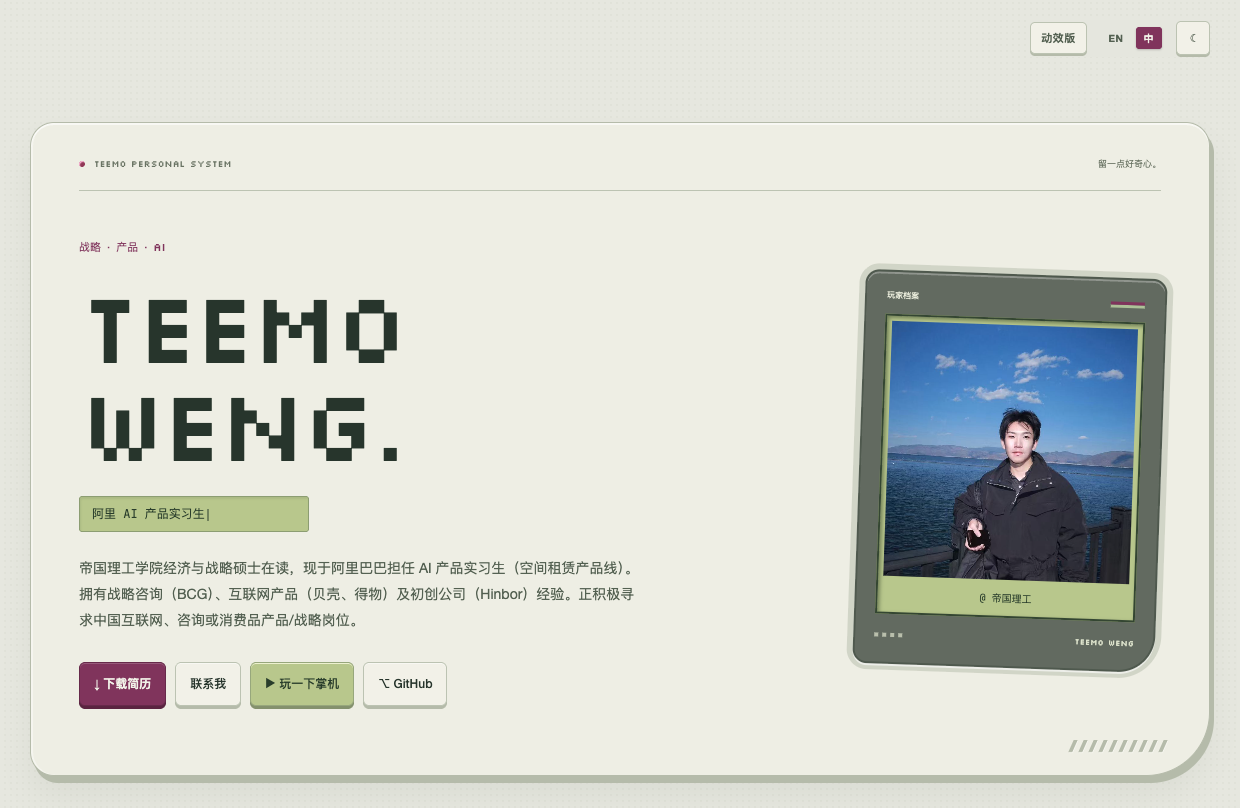
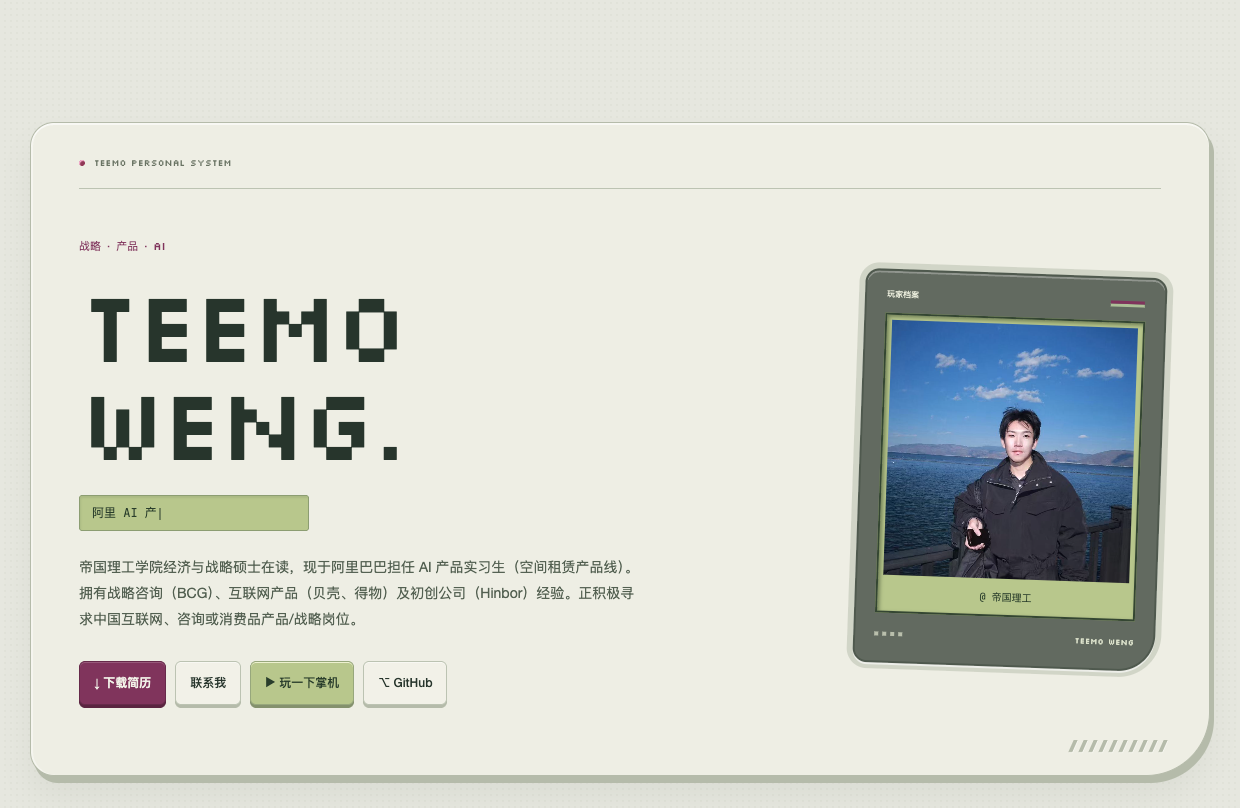
feat: finalize pocket homepage and remove unwanted labels

diff --git a/index.html b/index.html
@@ -104,16 +104,6 @@ nav {
 }
 .btn-icon:hover { border-color: var(--accent); color: var(--accent); }
 
-.nav-v2 {
-  display: inline-flex; align-items: center;
-  padding: 5px 12px; border: 1px solid var(--border);
-  border-radius: 99px; background: var(--card);
-  font-size: 11.5px; font-weight: 600; letter-spacing: 0.04em;
-  color: var(--fg2); text-decoration: none; white-space: nowrap;
-  transition: all 0.2s;
-}
-.nav-v2:hover { border-color: var(--accent); color: var(--accent); }
-
 .lang-toggle {
   display: flex; gap: 4px; background: var(--bg3);
   border-radius: 8px; padding: 3px;
@@ -895,7 +885,7 @@ footer span { color: var(--accent); }
 .handheld-player-symbol{display:grid;place-items:center;flex-shrink:0;width:36px;height:36px;border-radius:7px;background:#dce2cf;color:#4f6240;font:18px 'Handheld Pixel',monospace}
 .handheld-player-tag strong{font-size:12px;font-weight:500;display:block;margin-bottom:5px}
 .handheld-player-tag small{font:9px/1.5 'JetBrains Mono',monospace;color:var(--hh-muted)}
-.handheld-pencil-note{display:block;color:var(--hh-muted);font:italic 17px/1.5 Georgia,'Kaiti SC',serif;margin-top:36px;transform:rotate(-5deg)}
+
 /* The shell is drawn in CSS: molded corners, seam, bezel, recessed switches. */
 .handheld-console{--lcd-bg:#b6c985;--lcd-ink:#293b21;--lcd-mid:#728953;--lcd-line:#849963;--lcd-light:#c3d394;position:relative;width:388px;min-height:647px;padding:0 24px 27px;border:1px solid #aeb0a4;border-radius:19px 20px 69px 21px;background:linear-gradient(114deg,#f0f0e8 0%,#dedfd5 57%,#d0d2c7 100%);box-shadow:inset 3px 2px 4px #ffffffe0,inset -5px -5px 8px #9d9f9380,5px 8px 0 -1px #b5b8aa,6px 9px 0 #9b9f8f,15px 25px 35px #23321835,2px 2px 7px #23321820;transform:rotate(-3deg);color:#303730;touch-action:pan-y;outline:none;transition:transform .35s ease,box-shadow .35s ease}
 .handheld-console:focus-within{transform:rotate(-1deg);box-shadow:inset 3px 2px 4px #ffffffe0,inset -5px -5px 8px #9d9f9380,5px 8px 0 -1px #b5b8aa,6px 9px 0 #9b9f8f,15px 25px 35px #23321835,0 0 0 3px #79865c44}
@@ -994,15 +984,15 @@ footer span { color: var(--accent); }
 .handheld-sound svg{width:15px;height:15px;flex-shrink:0}
 .handheld-sound[aria-pressed="false"] .hh-sound-wave{display:none}
 .handheld-sound[aria-pressed="true"] .hh-sound-mute{display:none}
-.handheld-guide-note{font:italic 15px/1.5 Georgia,'Kaiti SC',serif;color:var(--hh-muted);margin-top:25px;max-width:160px}
-.handheld-stage-footer{display:flex;justify-content:space-between;gap:20px;border-top:1px solid var(--hh-rule);padding-top:20px;color:var(--hh-muted);font:9px/1.7 'JetBrains Mono',monospace}
-.handheld-stage-footer a{color:var(--hh-ink);text-decoration:none;border-bottom:1px solid var(--hh-rule)}
+
+
+
 .handheld-sr-only{position:absolute;width:1px;height:1px;padding:0;overflow:hidden;clip:rect(0,0,0,0);white-space:nowrap;border:0}
 .handheld-nojs{display:none}
 @media(max-width:1150px){.handheld-stage{padding-inline:28px}.handheld-layout{grid-template-columns:minmax(140px,1fr) 358px minmax(130px,.8fr);gap:25px}.handheld-console{width:358px;padding-inline:20px;min-height:617px}.handheld-top-rail{margin-inline:-20px}.handheld-bezel{padding-left:34px;padding-right:16px;min-height:287px}.handheld-screen{height:235px}.handheld-intro h2{font-size:34px}[data-lang="zh"] .handheld-intro h2{font-size:30px}.handheld-brand strong{font-size:20px}.handheld-display{padding:9px 9px 8px}.hh-menu-item{min-height:24px}.handheld-controls{height:145px}.handheld-ab{gap:11px}.handheld-ab-key button{width:49px;height:49px}.handheld-ab-key span{top:58px}}
-@media(max-width:940px){#playground{padding-inline:24px}.handheld-layout{grid-template-columns:1fr 370px;gap:30px;padding-top:42px;align-items:center}.handheld-console{grid-column:2;grid-row:1/3;width:370px;min-height:625px}.handheld-intro{grid-column:1;grid-row:1}.handheld-guide{grid-column:1;grid-row:2}.handheld-intro p{max-width:250px;margin-bottom:18px}.handheld-player-tag{padding-top:16px}.handheld-pencil-note{display:none}.handheld-guide-title{display:none}.handheld-guide-item{margin-bottom:16px}.handheld-guide-item p{margin-bottom:5px}.handheld-guide-note{display:none}.handheld-stage-header>span{font-size:8px}.handheld-sound{max-width:200px}}
-@media(max-width:680px){#playground{padding:45px 16px 55px}.handheld-stage{padding:22px 18px 22px;border-radius:5px}.handheld-stage-header{padding-bottom:17px;font-size:9px}.handheld-stage-header>span{max-width:105px;text-align:right;font-size:8px}.handheld-layout{display:flex;flex-direction:column;gap:32px;padding:28px 0 26px}.handheld-intro{width:100%;text-align:left}.handheld-intro h2{font-size:38px;margin-bottom:14px;max-width:330px}[data-lang="zh"] .handheld-intro h2{font-size:32px}.handheld-intro h2 span{display:inline}.handheld-intro h2 span+span::before{content:' '}.handheld-intro p{font-size:12px;max-width:400px;margin-bottom:0}.handheld-player-tag{display:none}.handheld-console{width:calc(100% - 16px);max-width:354px;min-height:590px;padding-inline:18px;transform:rotate(-1.7deg);margin:5px 8px 14px}.handheld-console:focus-within{transform:rotate(0)}.handheld-top-rail{margin-inline:-18px;padding-inline:22px;height:31px;margin-bottom:15px}.handheld-bezel{padding:29px 14px 18px 31px;min-height:268px;border-bottom-right-radius:31px}.handheld-bezel-top{font-size:5px;top:10px;gap:5px}.handheld-power-light{left:10px;top:110px}.handheld-screen{height:230px;border-width:2px}.handheld-display{padding:8px}.hh-screen-title{font-size:17px}.hh-screen-meta{font-size:8px;padding-bottom:4px;margin-bottom:6px}.hh-menu-item{font-size:11px!important;min-height:23px;padding:3px 4px!important}.hh-screen-copy{font-size:11px}.handheld-brand{padding-top:13px;gap:5px}.handheld-brand strong{font-size:19px}.handheld-brand span{font-size:7px}.handheld-controls{height:135px;padding-inline:0}.handheld-dpad{width:110px;height:110px;padding:7px}.handheld-ab{gap:11px;padding:7px;margin-right:1px}.handheld-ab-key button{width:44px;height:44px}.handheld-ab-key span{top:54px;left:17px;font-size:10px}.handheld-bottom{height:73px}.handheld-system-controls{left:60px;top:2px;gap:16px}.handheld-system-key button{width:33px;height:10px}.handheld-speaker{right:7px;gap:6px}.handheld-speaker i{height:49px;width:5px}.handheld-speaker i:first-child,.handheld-speaker i:last-child{height:42px}.handheld-shell-label{font-size:5px;bottom:14px}.handheld-screw{display:none}.handheld-guide{width:100%;display:grid;grid-template-columns:1fr 1fr;gap:15px 20px}.handheld-guide-item{margin:0}.handheld-guide-item:nth-of-type(4){display:none}.handheld-guide-item strong{font-size:11px}.handheld-guide-item p{font-size:10px}.handheld-sound{grid-column:1/-1;width:auto;justify-self:start;padding:9px 0;max-width:none;margin-top:1px}.handheld-stage-footer{font-size:8px;gap:18px}.handheld-stage-footer>span{max-width:210px}.hh-title-logo{font-size:28px}.hh-title-screen p{font-size:8px}}
-@media(max-width:380px){.btn-stack{white-space:normal;min-width:0;max-width:100%;text-align:center;padding-inline:16px}#playground{padding-inline:8px}.handheld-stage{padding-inline:12px}.handheld-console{width:calc(100% - 10px);margin-inline:5px;padding-inline:14px;min-height:567px}.handheld-top-rail{margin-inline:-14px}.handheld-screen{height:228px}.handheld-bezel{padding-left:27px;padding-right:11px}.handheld-bezel-top{font-size:4.4px;gap:4px}.handheld-power-light{left:7px;font-size:4px}.handheld-ab{gap:9px;padding:6px}.handheld-ab-key button{width:40px;height:40px}.handheld-ab-key span{top:48px;left:15px}.handheld-dpad{width:99px;height:99px}.handheld-system-controls{left:49px}.handheld-controls{height:128px}.handheld-brand span{font-size:6px}.hh-menu-item{font-size:10px!important}.hh-screen-copy{font-size:10px;line-height:1.65}.hh-screen-title{font-size:16px}.handheld-guide-keys kbd{min-width:20px}.handheld-stage-footer{gap:10px}}
+@media(max-width:940px){#playground{padding-inline:24px}.handheld-layout{grid-template-columns:1fr 370px;gap:30px;padding-top:42px;align-items:center}.handheld-console{grid-column:2;grid-row:1/3;width:370px;min-height:625px}.handheld-intro{grid-column:1;grid-row:1}.handheld-guide{grid-column:1;grid-row:2}.handheld-intro p{max-width:250px;margin-bottom:18px}.handheld-player-tag{padding-top:16px}.handheld-guide-title{display:none}.handheld-guide-item{margin-bottom:16px}.handheld-guide-item p{margin-bottom:5px}.handheld-sound{max-width:200px}}
+@media(max-width:680px){#playground{padding:45px 16px 55px}.handheld-stage{padding:22px 18px 22px;border-radius:5px}.handheld-stage-header{padding-bottom:17px;font-size:9px}.handheld-layout{display:flex;flex-direction:column;gap:32px;padding:28px 0 26px}.handheld-intro{width:100%;text-align:left}.handheld-intro h2{font-size:38px;margin-bottom:14px;max-width:330px}[data-lang="zh"] .handheld-intro h2{font-size:32px}.handheld-intro h2 span{display:inline}.handheld-intro h2 span+span::before{content:' '}.handheld-intro p{font-size:12px;max-width:400px;margin-bottom:0}.handheld-player-tag{display:none}.handheld-console{width:calc(100% - 16px);max-width:354px;min-height:590px;padding-inline:18px;transform:rotate(-1.7deg);margin:5px 8px 14px}.handheld-console:focus-within{transform:rotate(0)}.handheld-top-rail{margin-inline:-18px;padding-inline:22px;height:31px;margin-bottom:15px}.handheld-bezel{padding:29px 14px 18px 31px;min-height:268px;border-bottom-right-radius:31px}.handheld-bezel-top{font-size:5px;top:10px;gap:5px}.handheld-power-light{left:10px;top:110px}.handheld-screen{height:230px;border-width:2px}.handheld-display{padding:8px}.hh-screen-title{font-size:17px}.hh-screen-meta{font-size:8px;padding-bottom:4px;margin-bottom:6px}.hh-menu-item{font-size:11px!important;min-height:23px;padding:3px 4px!important}.hh-screen-copy{font-size:11px}.handheld-brand{padding-top:13px;gap:5px}.handheld-brand strong{font-size:19px}.handheld-brand span{font-size:7px}.handheld-controls{height:135px;padding-inline:0}.handheld-dpad{width:110px;height:110px;padding:7px}.handheld-ab{gap:11px;padding:7px;margin-right:1px}.handheld-ab-key button{width:44px;height:44px}.handheld-ab-key span{top:54px;left:17px;font-size:10px}.handheld-bottom{height:73px}.handheld-system-controls{left:60px;top:2px;gap:16px}.handheld-system-key button{width:33px;height:10px}.handheld-speaker{right:7px;gap:6px}.handheld-speaker i{height:49px;width:5px}.handheld-speaker i:first-child,.handheld-speaker i:last-child{height:42px}.handheld-shell-label{font-size:5px;bottom:14px}.handheld-screw{display:none}.handheld-guide{width:100%;display:grid;grid-template-columns:1fr 1fr;gap:15px 20px}.handheld-guide-item{margin:0}.handheld-guide-item:nth-of-type(4){display:none}.handheld-guide-item strong{font-size:11px}.handheld-guide-item p{font-size:10px}.handheld-sound{grid-column:1/-1;width:auto;justify-self:start;padding:9px 0;max-width:none;margin-top:1px}.hh-title-logo{font-size:28px}.hh-title-screen p{font-size:8px}}
+@media(max-width:380px){.btn-stack{white-space:normal;min-width:0;max-width:100%;text-align:center;padding-inline:16px}#playground{padding-inline:8px}.handheld-stage{padding-inline:12px}.handheld-console{width:calc(100% - 10px);margin-inline:5px;padding-inline:14px;min-height:567px}.handheld-top-rail{margin-inline:-14px}.handheld-screen{height:228px}.handheld-bezel{padding-left:27px;padding-right:11px}.handheld-bezel-top{font-size:4.4px;gap:4px}.handheld-power-light{left:7px;font-size:4px}.handheld-ab{gap:9px;padding:6px}.handheld-ab-key button{width:40px;height:40px}.handheld-ab-key span{top:48px;left:15px}.handheld-dpad{width:99px;height:99px}.handheld-system-controls{left:49px}.handheld-controls{height:128px}.handheld-brand span{font-size:6px}.hh-menu-item{font-size:10px!important}.hh-screen-copy{font-size:10px;line-height:1.65}.hh-screen-title{font-size:16px}.handheld-guide-keys kbd{min-width:20px}}
 @media(prefers-reduced-motion:reduce){.handheld-console,.handheld-power::after,.hh-boot-bar::after{transition:none!important;animation:none!important}.handheld-console,.handheld-console:focus-within{transform:none}}
 
 
@@ -1036,7 +1026,7 @@ footer span { color: var(--accent); }
 @media(max-width:680px){[data-lang="zh"] .handheld-intro h2 span{display:block}[data-lang="zh"] .handheld-intro h2 span+span::before{content:none}.hh-menu-item{font-size:12px!important;min-height:27px}.handheld-screen .hh-menu{gap:1px}}
 @media(max-width:380px){.handheld-screen{height:250px}.hh-links{flex-wrap:nowrap;gap:4px}.hh-links .hh-link{font-size:9px!important;white-space:nowrap;margin-right:0;padding-inline:4px}}
 
-.handheld-stage-header > [data-i18n="game_edition"]{margin-left:auto}
+
 .handheld-toggle{display:inline-flex;align-items:center;justify-content:center;gap:8px;flex-shrink:0;min-height:40px;padding:8px 12px;border:1px solid var(--hh-rule);border-radius:5px;background:transparent;color:var(--hh-ink);font:11px 'JetBrains Mono','PingFang SC',monospace;cursor:pointer}
 .handheld-toggle[hidden],#handheld-content[hidden]{display:none}
 .handheld-toggle:hover{background:#8e997a18}
@@ -1047,7 +1037,7 @@ footer span { color: var(--accent); }
 .handheld-stage[data-collapsed="true"] .handheld-stage-header{padding-bottom:0;border-bottom-color:transparent}
 #playground{overflow-anchor:none}
 @media(prefers-reduced-motion:reduce){.handheld-stage-header,.handheld-toggle svg{transition:none}}
-@media(max-width:680px){.handheld-stage-header > [data-i18n="game_edition"]{display:none}.handheld-toggle{font-size:10px;padding-inline:9px}}
+@media(max-width:680px){.handheld-toggle{font-size:10px;padding-inline:9px}}
 
 /* Pocket System: one material language across the personal homepage. */
 .pocket-homepage {
@@ -1085,8 +1075,7 @@ footer span { color: var(--accent); }
 .pocket-homepage .nav-links{gap:22px}
 .pocket-homepage .nav-links a{font-size:11px;letter-spacing:0;text-transform:none;font-weight:600}
 .pocket-homepage .nav-controls{gap:10px}
-.pocket-homepage .nav-v2,.pocket-homepage .btn-icon{border-radius:5px;background:var(--bg2);border-color:var(--border);box-shadow:0 2px 0 var(--shell-edge);font-size:11px}
-.pocket-homepage .nav-v2{padding:7px 10px}
+.pocket-homepage .btn-icon{border-radius:5px;background:var(--bg2);border-color:var(--border);box-shadow:0 2px 0 var(--shell-edge);font-size:11px}
 .pocket-homepage .lang-toggle{border:1px solid var(--border);border-radius:6px;background:var(--bg3);padding:3px;box-shadow:inset 0 1px 3px #26322318}
 .pocket-homepage .lang-btn{border-radius:3px;font-size:10px;padding:4px 8px;color:var(--fg2)}
 .pocket-homepage .lang-btn.active{background:var(--accent);color:var(--bg2);box-shadow:0 1px 2px #0003}
@@ -1112,7 +1101,7 @@ footer span { color: var(--accent); }
 .pocket-homepage .hero-case-rail{grid-column:1/-1;display:flex;align-items:center;justify-content:space-between;gap:20px;padding-bottom:20px;border-bottom:1px solid var(--border);font:9px var(--pixel);letter-spacing:.02em;color:var(--fg3)}
 .pocket-homepage .hero-case-rail>span:first-child{display:flex;align-items:center;gap:9px}
 .pocket-homepage .hero-case-rail i{width:6px;height:6px;border-radius:50%;background:#913856;box-shadow:inset 1px 1px 1px #ffb8d8;flex-shrink:0}
-.pocket-homepage .hero-case-rail>span:last-child{font-family:'JetBrains Mono',monospace;font-size:9px;letter-spacing:0}
+
 .pocket-homepage .hero-text{min-width:0}
 .pocket-homepage .hero-tag{padding:0;border:0;border-radius:0;font:11px var(--pixel);letter-spacing:0;text-transform:none;margin:0 0 20px;color:var(--accent)}
 .pocket-homepage .hero-name{font-family:var(--pixel);font-size:clamp(60px,7.2vw,100px);font-weight:400;line-height:.98;letter-spacing:-5px;margin:0 0 25px;color:var(--fg)}
@@ -1172,14 +1161,13 @@ footer span { color: var(--accent); }
   .pocket-homepage nav{height:66px;padding-inline:18px;gap:12px}
   .pocket-homepage .nav-logo{font-size:12px;gap:8px}
   .pocket-homepage .nav-controls{gap:7px}
-  .pocket-homepage .nav-v2{font-size:10px;padding:6px 8px}
   .pocket-homepage .btn-icon{width:30px;height:30px}
   .pocket-homepage .lang-btn{padding:4px 6px}
   .pocket-homepage section{padding:55px 24px;scroll-margin-top:86px}
   .pocket-homepage #hero{padding:96px 20px 23px}
   .pocket-homepage .hero-content{grid-template-columns:1fr;gap:28px;padding:24px 26px 40px;border-radius:18px 18px 42px 18px;text-align:left}
   .pocket-homepage .hero-case-rail{grid-column:1;padding-bottom:18px;font-size:8px;gap:10px}
-  .pocket-homepage .hero-case-rail>span:last-child{font-size:7px}
+
   .pocket-homepage .hero-name{font-size:76px;letter-spacing:-4px;line-height:.98;margin-bottom:22px}
   .pocket-homepage .hero-tag{margin-bottom:16px}
   .pocket-homepage .hero-desc{font-size:14px;line-height:1.8}
@@ -1202,7 +1190,7 @@ footer span { color: var(--accent); }
   .pocket-homepage .hero-desc{font-size:13px}
   .pocket-homepage .hero-typing{font-size:10px;margin-bottom:19px}
   .pocket-homepage .hero-case-rail{font-size:7px}
-  .pocket-homepage .hero-case-rail>span:last-child{max-width:70px;line-height:1.6;text-align:right}
+
   .pocket-homepage .hero-avatar{max-width:250px;margin-block:10px}
   .pocket-homepage .avatar-wrap img{height:215px}
   .pocket-homepage #playground{padding-inline:13px}
@@ -1215,7 +1203,6 @@ footer span { color: var(--accent); }
   .pocket-homepage .pocket-brand-icon{grid-template-columns:repeat(2,4px)}
   .pocket-homepage .pocket-brand-icon i{width:4px;height:4px}
   .pocket-homepage .nav-controls{gap:6px}
-  .pocket-homepage .nav-v2{padding:5px 6px;font-size:9px}
   .pocket-homepage .hero-name{font-size:54px;letter-spacing:-3px}
   .pocket-homepage .hero-content{padding-inline:17px}
   .pocket-homepage .hero-actions>a,.pocket-homepage .hero-actions>button{padding-inline:4px;font-size:9px}
@@ -1454,7 +1441,6 @@ footer span { color: var(--accent); }
     <li><a href="#contact" data-i18n="nav_contact">Contact</a></li>
   </ul>
   <div class="nav-controls">
-    <a class="nav-v2" href="/v2/" data-i18n="btn_v2">Cinematic</a>
     <div class="lang-toggle">
       <button class="lang-btn active" onclick="setLang('en')">EN</button>
       <button class="lang-btn" onclick="setLang('zh')">中</button>
@@ -1467,7 +1453,7 @@ footer span { color: var(--accent); }
 <section id="hero">
   <canvas id="particles"></canvas>
   <div class="hero-content">
-    <div class="hero-case-rail"><span><i aria-hidden="true"></i> TEEMO PERSONAL SYSTEM</span><span data-i18n="pocket_edition">A little world to explore.</span></div>
+    <div class="hero-case-rail"><span><i aria-hidden="true"></i> TEEMO PERSONAL SYSTEM</span></div>
     <div class="hero-text">
       <div class="hero-tag" data-i18n="hero_tag">Strategy · Product · AI</div>
       <h1 class="hero-name">Teemo<br><span>Weng.</span></h1>
@@ -1504,7 +1490,6 @@ footer span { color: var(--accent); }
   <div class="handheld-stage">
     <div class="handheld-stage-header">
       <strong><span class="handheld-mark" aria-hidden="true"><i></i><i></i><i></i><i></i></span> TEEMO / PLAY</strong>
-      <span data-i18n="game_edition">A little world, ready to play.</span>
       <button id="handheld-toggle" class="handheld-toggle" type="button" aria-expanded="true" aria-controls="handheld-content" hidden><span data-i18n="game_collapse">Collapse</span><svg viewBox="0 0 16 16" width="14" height="14" fill="none" stroke="currentColor" stroke-width="1.5" aria-hidden="true"><path d="m4 10 4-4 4 4"/></svg></button>
     </div>
     <div id="handheld-content">
@@ -1513,7 +1498,6 @@ footer span { color: var(--accent); }
         <h2 data-i18n="game_heading"><span>Press start.</span><span>Meet Teemo.</span></h2>
         <p data-i18n="game_intro">A few projects, a little curiosity, and a pocket-sized way to get to know me. Go on. Press a button.</p>
         <div class="handheld-player-tag"><span class="handheld-player-symbol" aria-hidden="true">T</span><div><strong>Teemo Weng</strong><small data-i18n="game_player_role">Product · AI · Strategy</small></div></div>
-        <span class="handheld-pencil-note" data-i18n="game_margin_note">Made for the curious. ↗</span>
       </div>
       <div id="handheld-console" class="handheld-console" tabindex="0" role="group" data-powered="true" data-palette="green" data-i18n-aria-label="game_console_label" aria-label="Teemo interactive handheld. Use direction keys and A or B while focused.">
         <div class="handheld-top-rail"><span>OFF · ON</span><button id="handheld-power" class="handheld-power" type="button" aria-pressed="true" aria-label="Power" data-i18n-aria-label="game_power_label"></button><small>TW—01</small></div>
@@ -1540,10 +1524,8 @@ footer span { color: var(--accent); }
         <div class="handheld-guide-item"><strong data-i18n="game_action_title">Follow your curiosity</strong><p data-i18n="game_action_desc">A to select. B to go back.</p><div class="handheld-guide-keys" aria-hidden="true"><kbd>A</kbd><span>/</span><kbd>Enter</kbd><kbd>B</kbd><span>/</span><kbd>Esc</kbd></div></div>
         <div class="handheld-guide-item"><strong data-i18n="game_home_title">Make yourself at home</strong><p data-i18n="game_home_desc">START returns home. SELECT changes the screen color.</p></div>
         <button type="button" id="handheld-sound" class="handheld-sound" aria-pressed="false" aria-label="Enable sound"><svg viewBox="0 0 24 24" fill="none" stroke="currentColor" stroke-width="1.6" aria-hidden="true"><path d="M10 5 5 9H2v6h3l5 4V5Z"/><path class="hh-sound-wave" d="M14 8q4 4 0 8m3-11q7 7 0 14"/><path class="hh-sound-mute" d="m15 9 6 6m0-6-6 6"/></svg><span data-i18n="game_sound_off">Sound off · turn on</span></button>
-        <p class="handheld-guide-note" data-i18n="game_quest_note">Psst… there’s a little side quest inside.</p>
       </aside>
     </div>
-    <div class="handheld-stage-footer"><span data-i18n="game_footer">Real projects. A playful way in.</span><a href="#projects" data-i18n="game_skip">Browse the projects below ↗</a></div>
     </div>
     <div id="handheld-announcement" class="handheld-sr-only" aria-live="polite" aria-atomic="true"></div>
     <noscript><p class="handheld-nojs">掌机需要 JavaScript。你仍可在下方浏览完整项目。 / Enable JavaScript to play, or browse all projects below.</p><style>.handheld-nojs{display:block;padding-top:15px;font-size:12px}.project-card,.news-item,.tl-item,.edu-card,.skill-group,.reveal{opacity:1;transform:none}.handheld-console button,.handheld-sound{pointer-events:none}.handheld-nojs a{color:inherit}</style></noscript>
@@ -1925,7 +1907,7 @@ footer span { color: var(--accent); }
 </section>
 
 <footer>
-  <strong>TEEMO / PLAY</strong><span data-i18n="pocket_footer">Made for a little curiosity. © Teemo Weng 2026</span>
+  <strong>TEEMO / PLAY</strong><span data-i18n="pocket_footer">© Teemo Weng 2026</span>
 </footer>
 
 <!-- GITHUB MODAL -->
@@ -1978,18 +1960,16 @@ const i18n = {
   en: {
     pocket_theme_label: "Switch light or dark theme",
     pocket_name_placeholder: "Your name", pocket_email_placeholder: "your@email.com", pocket_message_placeholder: "Hello Teemo, I’d like to connect...",
-    pocket_edition: "A little world to explore.", pocket_profile: "Player profile",
+    pocket_profile: "Player profile",
     pocket_news_heading: "What’s new", pocket_experience_heading: "Experience",
     pocket_education_heading: "Education", pocket_skills_heading: "Skills & tools", pocket_contact_heading: "Let’s talk",
-    pocket_footer: "Made for a little curiosity. © Teemo Weng 2026",
+    pocket_footer: "© Teemo Weng 2026",
     game_hero_link: "▶ Play a little",
     btn_resume_short: "↓ Resume", btn_contact_short: "Contact", game_hero_short: "▶ Play",
     game_collapse: "Collapse", game_expand: "Expand",
-    game_edition: "A little world, ready to play.",
     game_heading: "<span>Press start.</span><span>Meet Teemo.</span>",
     game_intro: "A few projects, a little curiosity, and a pocket-sized way to get to know me. Go on. Press a button.",
     game_player_role: "Product · AI · Strategy",
-    game_margin_note: "Made for the curious. ↗",
     game_console_label: "Teemo interactive handheld. Use direction keys and A or B while focused.",
     game_power_label: "Power",
     game_title_sub: "A pocket-sized introduction.",
@@ -2010,14 +1990,11 @@ const i18n = {
     game_home_title: "Make yourself at home",
     game_home_desc: "START returns home. SELECT changes the screen color.",
     game_sound_off: "Sound off · turn on",
-    game_quest_note: "Psst… there’s a little side quest inside.",
-    game_footer: "Real projects. A playful way in.",
-    game_skip: "Browse the projects below ↗",
     nav_capabilities: 'Capabilities', nav_news: 'News', nav_projects: 'Projects', nav_experience: 'Experience',
     nav_research: 'Research', nav_education: 'Education', nav_contact: 'Contact',
     hero_tag: 'Strategy · Product · AI',
     hero_desc: 'MSc student at Imperial College London, currently an AI Product Intern at Alibaba (space-leasing product line). Experienced in strategy consulting (BCG), internet product (Beike, POIZON), and startup building. Seeking product & strategy roles in China.',
-    btn_resume: '↓ Download Resume', btn_contact: 'Get in Touch', btn_v2: 'Cinematic',
+    btn_resume: '↓ Download Resume', btn_contact: 'Get in Touch',
     avatar_badge: '@ Imperial College', scroll_hint: 'scroll',
     section_capabilities: 'FDE capability map',
     capabilities_heading: 'From ambiguity to <span>adoption</span>',
@@ -2112,18 +2089,16 @@ const i18n = {
   zh: {
     pocket_theme_label: "切换浅色或深色外观",
     pocket_name_placeholder: "怎么称呼你", pocket_email_placeholder: "你的邮箱地址", pocket_message_placeholder: "你好 Teemo，我想聊聊……",
-    pocket_edition: "留一点好奇心。", pocket_profile: "玩家档案",
+    pocket_profile: "玩家档案",
     pocket_news_heading: "最近在做什么", pocket_experience_heading: "一路走来的经历",
     pocket_education_heading: "教育经历", pocket_skills_heading: "我的工具箱", pocket_contact_heading: "聊点有意思的",
-    pocket_footer: "留一点好奇心。© 翁呈轩 Teemo Weng 2026",
+    pocket_footer: "© 翁呈轩 Teemo Weng 2026",
     game_hero_link: "▶ 玩一下掌机",
     btn_resume_short: "↓ 简历", btn_contact_short: "联系我", game_hero_short: "▶ 掌机",
     game_collapse: "收起掌机", game_expand: "展开掌机",
-    game_edition: "我的小世界，随时开机。",
     game_heading: "<span>按下开始，</span><span>认识一下我。</span>",
     game_intro: "几个项目，一点好奇心，装进一台小掌机。用方向键逛逛我的作品，也可以去收集一点灵感。",
     game_player_role: "产品 · AI · 策略",
-    game_margin_note: "给好奇的人，一个小入口。↗",
     game_console_label: "Teemo 互动掌机。聚焦后使用方向键和 A、B 操作。",
     game_power_label: "电源开关",
     game_title_sub: "装进口袋的自我介绍。",
@@ -2144,14 +2119,11 @@ const i18n = {
     game_home_title: "随时回到起点",
     game_home_desc: "START 回主菜单，SELECT 换个屏幕颜色。",
     game_sound_off: "音效已关 · 点击开启",
-    game_quest_note: "里面还藏了一个小彩蛋。",
-    game_footer: "真实的作品，换一种好玩的打开方式。",
-    game_skip: "直接浏览下方项目 ↗",
     nav_capabilities: '能力图谱', nav_news: '动态', nav_projects: '项目', nav_experience: '经历',
     nav_research: '论文成果', nav_education: '教育', nav_contact: '联系',
     hero_tag: '战略 · 产品 · AI',
     hero_desc: '帝国理工学院经济与战略硕士在读，现于阿里巴巴担任 AI 产品实习生（空间租赁产品线）。拥有战略咨询（BCG）、互联网产品（贝壳、得物）及初创公司（Hinbor）经验。正积极寻求中国互联网、咨询或消费品产品/战略岗位。',
-    btn_resume: '↓ 下载简历', btn_contact: '联系我', btn_v2: '动效版',
+    btn_resume: '↓ 下载简历', btn_contact: '联系我',
     avatar_badge: '@ 帝国理工', scroll_hint: '向下滚动',
     section_capabilities: 'FDE 能力图谱',
     capabilities_heading: '从模糊问题到<span>真正采用</span>',

diff --git a/CLAUDE.md b/CLAUDE.md
@@ -15,21 +15,21 @@ Push to the `main` branch — GitHub Pages serves it automatically at `teemoweng
 
 ## Architecture
 
-**Two versions coexist (2026-07-08 restructure, Teemo's call: the classic layout reads better as a job-hunting homepage):**
+**Pocket System is the approved main homepage direction (2026-09-07, Teemo's decision).** Earlier versions remain as historical pages.
 
 | Path | What | Status |
 |------|------|--------|
-| `index.html` (root) | **Classic portfolio** (single-page sections: hero/news/projects/experience/education/skills/contact, dark warm theme, particles + typing effect) | **Main entry — maintain this one** |
-| `v2/index.html` | **Cinematic scroll narrative** (8-scene GSAP redesign) | Linked from root hero button "✨ Cinematic version"; keep content in sync when experience changes |
+| `index.html` (root) | **Pocket System portfolio** (single-page sections, retro handheld materials, playable handheld, capability map, full-color portrait, light/dark themes) | **Main entry — maintain this one** |
+| `v2/index.html` | **Historical cinematic scroll narrative** (8-scene GSAP redesign) | Retain files and assets; no homepage entrance and no content-sync requirement |
 | `v1/index.html` | Frozen pre-redesign archive (self-contained with own `uploads/`) | **Do not modify or delete** |
 
-Cross-links: root hero has a `btn_v2` button → `/v2/`; v2's finale credits link back to `/` ("classic version"). `v2/index.html` references root assets by absolute path (`/uploads/...`) — keep it that way.
+Homepage navigation must not offer a “Cinematic version / 动效版” entrance to `/v2/`. The historical v2 finale credits still link back to `/` with their original "classic version" wording. `v2/index.html` references root assets by absolute path (`/uploads/...`) — preserve these files and references. The earlier handheld review preview at `https://teemo-pocket-review.vercel.app/` remains available.
 
 Each version lives in a single HTML file with all CSS and JavaScript inlined. **Do not split into separate files.** There is no build step, no package manager, no bundler.
 
-Content update checklist (new job/news/resume): update root `index.html` (news + timeline + projects + hero_desc + i18n en/zh) **and** `v2/index.html` (record ledger + news + product chapter + i18n en/zh); resume PDFs live at `uploads/resume-cw-{zh,en}-YYYYMM.pdf`, and both `downloadResume()` functions serve zh/en by `currentLang`.
+Content update checklist (new job/news/resume): update root `index.html` (news + timeline + projects + hero_desc + i18n en/zh). There is no ongoing requirement to update `v2/index.html`. Resume PDFs live at `uploads/resume-cw-{zh,en}-YYYYMM.pdf`; the root `downloadResume()` serves zh/en by `currentLang`. Preserve historical PDFs referenced by archived versions.
 
-The v2 site is an **8-scene cinematic scroll narrative** (2026-06 redesign, spec in `docs/superpowers/specs/2026-06-10-cinematic-redesign-design.md`):
+The following v2 implementation notes describe the retained historical page, not the active homepage or a requirement to keep v2 updated. The v2 site is an **8-scene cinematic scroll narrative** (2026-06 redesign, spec in `docs/superpowers/specs/2026-06-10-cinematic-redesign-design.md`):
 
 1. `#s1` Opening (giant name on peach sky) → 2. `#s2` Statement (word-by-word lighting, pinned) → 3-5. `.chapter` ×3 Strategy/Product/Founder (pinned horizontal card strips) → 6. `#why` Why-me (dark warm typography scene, checklist lighting) → 7. `#record` ledger (experience/education/toolkit/news rows) → 8. `#s8` Finale (Let's talk + avatar sticker + giant name footer).
 
@@ -40,7 +40,7 @@ The v2 site is an **8-scene cinematic scroll narrative** (2026-06 redesign, spec
 
 Static assets (images, resume PDF) go in `uploads/`. The finale avatar sticker is `uploads/avatar-sticker.png` (background-removed cutout; regenerate via `npx hyperframes remove-background`).
 
-**The root classic site** shares the same i18n pattern (`data-i18n` + `i18n.en`/`i18n.zh` object) but has its own additional conventions: `--accent` oklch tokens, dark/light theme toggle (`data-theme`), `.reveal` scroll animations, particles canvas, and a typing-roles effect.
+**The root Pocket System site** uses the same i18n pattern (`data-i18n` + `i18n.en`/`i18n.zh` object), with `.pocket-homepage` material/color tokens, a dark/light theme toggle (`data-theme`, stored under `tw-pocket-theme`), and a typing-roles effect that becomes static with reduced motion. The background particles are disabled. The portrait retains its original colors inside the handheld frame; the capability map retains its central FDE label and independent flips without decorative edge circles.
 
 ## i18n
 
@@ -54,13 +54,15 @@ Parity check (run in the browser console): keys of `i18n.en` and `i18n.zh` must 
 
 ## Key Conventions
 
-- **v2 palette** is peach/cream design tokens in `:root`: `--cream`, `--sky-1/2`, `--peach`, `--peach-deep` (accent), `--ink` scale, `--dusk` scale. Single theme in v2 — no dark/light toggle there by design (root classic site does have the toggle).
-- **Fonts**: Hanken Grotesk (display + body) and JetBrains Mono (kicker labels) from Google Fonts; Chinese falls back to system fonts.
-- The GitHub modal fetches repos live from the GitHub API; no mock data needed. It pauses Lenis while open.
-- All contact actions are `mailto:` / direct links — there is no backend or form.
+- **Root palette** uses gray-green/cream shell materials, green LCD surfaces and purple-red controls, with corresponding dark-theme tokens. The historical **v2 palette** retains its peach/cream tokens and single-theme behavior.
+- **Root fonts**: self-hosted Silkscreen for the name, brand and selected short labels; readable system Chinese/English fonts for body text. Historical v2 uses Hanken Grotesk and JetBrains Mono from Google Fonts.
+- The GitHub modal fetches repos live from the GitHub API; no mock data needed. The root modal pauses the handheld while open; historical v2 pauses Lenis.
+- Contact actions use `mailto:` / direct links. The root contact form opens a mail draft; there is no submission backend.
 
 ---
 
+*Schema 版本：v1.3 — 2026-09-07*
+*v1.3 变更：用户批准 Pocket System 作为正式主页并合入 main，合并与线上验证待执行；移除主页动效版入口要求，v2 保留为历史页面且不再要求内容同步；保留 v1/v2 历史资源及原掌机预览。更新根页面的主题、字体、原色照片、能力卡与联系表单约定，历史 v2 实现说明继续保留。*
 *Schema 版本：v1.2 — 2026-07-08*
 *v1.2 变更：站点重构为「经典版为主入口」双版本结构（Teemo 拍板：经典版更像求职个人主页）。root = 经典版（从 v1 复刻并更新：阿里实习进 hero/news/timeline/projects、双语简历 PDF 下载、✨动效版跳转按钮）；/v2/ = 电影式滚动叙事版（资产改用绝对路径 /uploads/，credits 回链经典版）；/v1/ = 冻结档案不动。新增「内容更新 checklist」：经历变动要同时改 root 和 v2 两处 + i18n 双语。*
 *Schema 版本：v1.1 — 2026-06-10*

diff --git a/docs/pocket-system-review.md b/docs/pocket-system-review.md
@@ -1,10 +1,10 @@
-# Pocket System — 整站掌机风格审阅版
+# Pocket System — 整站掌机风格（已批准合并）
 
-从已认可的掌机模块版 `567d842` 新建独立分支 `codex/pocket-system-homepage-20260907`。此前掌机版的分支、PR 和预览继续保留，本版作为另一条视觉方向供比较。
+从已认可的掌机模块版 `567d842` 新建独立分支 `codex/pocket-system-homepage-20260907`。2026-09-07，用户已批准采用本版作为正式主页并合入 `main`。合并状态以 [PR #3](https://github.com/teemoweng/teemoweng.github.io/pull/3) 为准，正式地址为 https://teemoweng.github.io/ 。此前掌机版的分支、PR 和预览继续保留。
 
-新预览：https://teemo-pocket-system-review.vercel.app/?lang=zh
+Pocket System 预览：https://teemo-pocket-system-review.vercel.app/?lang=zh
 
-已认可版本：https://teemo-pocket-review.vercel.app/?lang=zh
+保留的原掌机预览：https://teemo-pocket-review.vercel.app/?lang=zh
 
 ## 设计方向
 
@@ -22,13 +22,13 @@
 
 掌机的位置、展开/收起、保留游戏进度、方向键与 A/B 控制、音效开关、屏幕配色和迷宫均继承已认可版本。能力卡仍各自独立翻转；四个项目的介绍、演示和源码链接、论文、履历、简历下载与联系方式保持原有内容。补齐部分原先未翻译的栏目标题、联系输入提示及标签关联。
 
-根目录仍为单个 `index.html`，CSS/JS 内联，无构建或新运行时依赖；字体沿用现有本地资源及许可证。`v1/` 和 `v2/` 不修改。
+根目录仍为单个 `index.html`，CSS/JS 内联，无构建或新运行时依赖；字体沿用现有本地资源及许可证。用户同时要求移除主页的“动效版”入口。`v1/`、`v2/` 及其历史资源继续保留；`v2/` 作为历史页面，不再提供主页入口，也不再要求随正式主页同步更新内容。
 
 ## 验收范围
 
 沿用 `tests/test_handheld.mjs`、`tests/test_capability_map.mjs` 和 Python 内容测试。视觉检查覆盖浅色/深色、中英双语、桌面/平板/手机；重点检查 320/390/900/1440px 的页面溢出、四按钮同排、标题与焦点可见性，以及屏幕内容裁切。
 
-独立 Vercel 审阅项目为 `teemo-pocket-system-review`。不改原审阅项目或 GitHub Pages，不合并到 main。
+独立 Vercel 预览项目为 `teemo-pocket-system-review`，原掌机预览保持不动。本轮已获授权将 Pocket System 合入 `main` 并更新 GitHub Pages 正式主页；合并与部署结果在 PR 及 GitHub Pages 发布记录中核验。
 
 
 ## 验证结果（2026-09-07）
@@ -45,3 +45,8 @@
 
 
 能力卡清晰度修订：删除原拼图凸口装饰，移除 hover、键盘聚焦和翻面状态下覆盖整卡的柔化阴影，保留硬边底座阴影与翻面动效。能力图谱 7 组交互回归通过；320/390/600/900/1440px 中英双语、深浅色下，背面文字与页面均无溢出。桌面翻面前后及手机英文截图已更新。
+
+
+## 发布前收尾
+
+移除主页“动效版”入口及对应样式、双语键。按用户六张截图的精确范围，删除首屏与页脚的好奇心短句、掌机顶栏标语、左侧手写短句、右侧彩蛋提示，以及掌机底栏左右两处文字；英文对应内容同步移除，页脚版权信息保留。

diff --git a/README.md b/README.md
@@ -2,20 +2,22 @@
 
 Live site: https://teemoweng.github.io/
 
-Single-page personal homepage designed in [Claude Design](https://claude.ai/design) and served as static HTML via GitHub Pages.
+Single-page personal homepage with a retro handheld visual style, served as static HTML via GitHub Pages.
 
 ## Structure
 
 - `index.html` — the full homepage (styles and scripts inlined)
 - `uploads/` — avatar, project images, and downloadable resume PDF
 - `.nojekyll` — tells GitHub Pages to skip Jekyll and serve files as-is
+- `v1/` and `v2/` — historical pages retained without an entry in the current homepage; no ongoing content synchronization
 
 ## Features
 
 - Light / dark theme toggle
 - English / 中文 language switch
-- Particle background, typing animation, scroll reveal
-- News, Projects, Experience timeline, Education, Skills, Contact
+- Interactive handheld with smooth expand/collapse, keyboard/touch controls and a playable maze
+- Independently flipping capability cards
+- News, Projects, Research, Experience timeline, Education, Skills, Contact
 - Downloadable PDF resume
 
 ## Local preview
